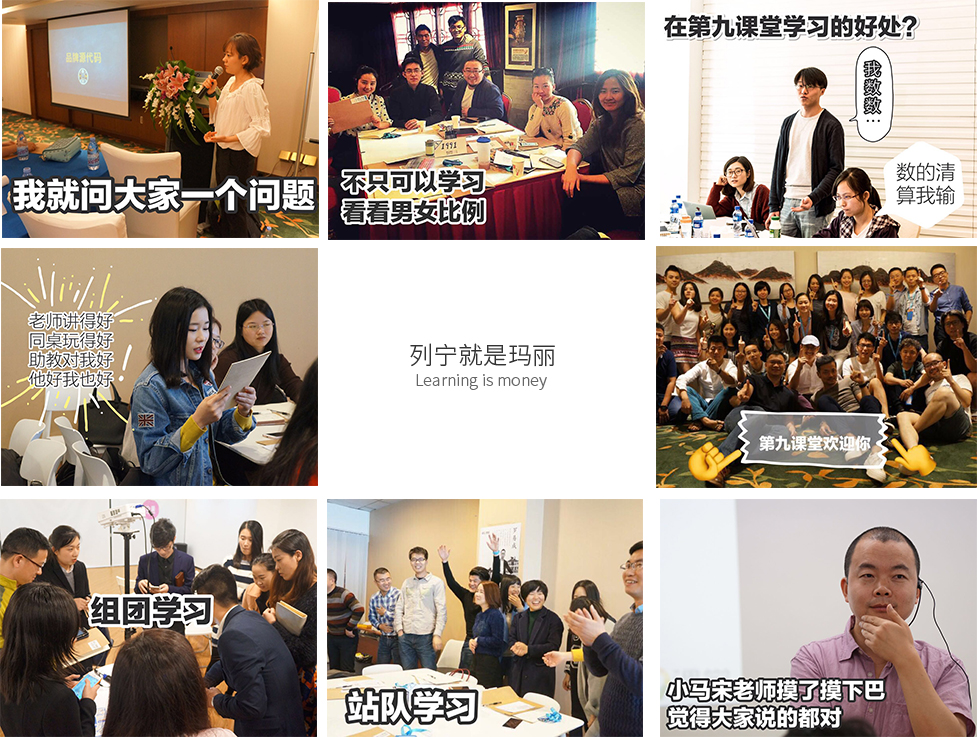
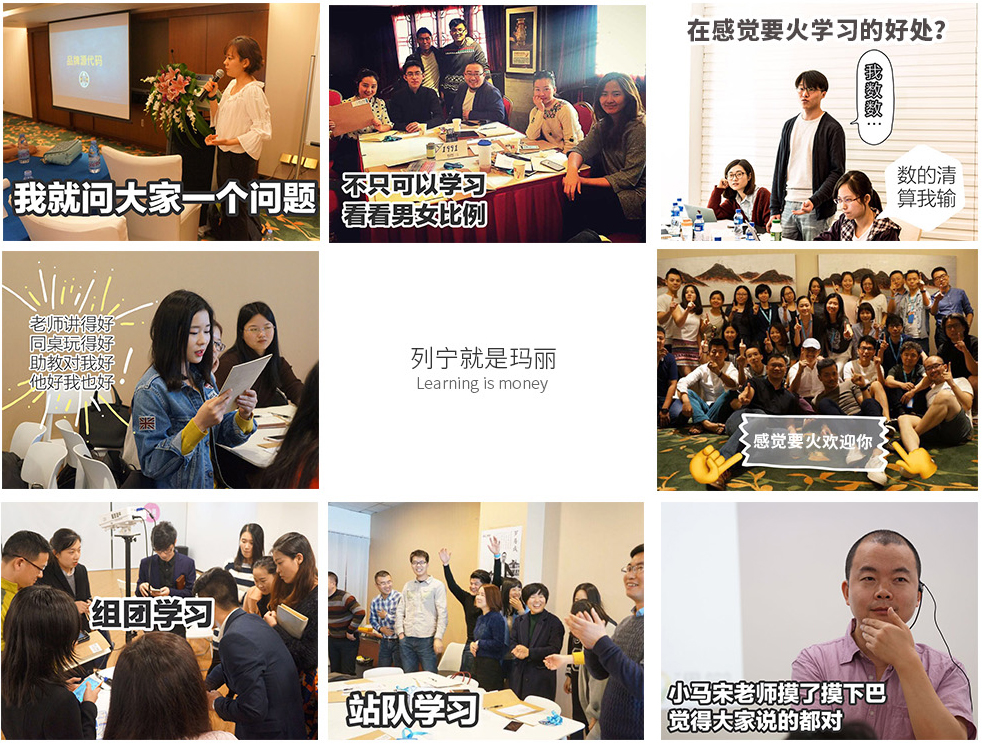
感觉要火

diff --git a/frontendIII/public/marry.html b/frontendIII/public/marry.html
@@ -14,7 +14,7 @@
     <div class="header">
         <div class="header-main">
             <div class="slogan">
-                <img src="./img/logo-150-44.png" alt="第九课堂" class="logo">
+                <img src="./svg/logo.svg" alt="第九课堂" class="logo">
                 专注互联网营销人才培养
             </div>
             <a href="javascript:void(0);" class="btn btn-show-navs">点我</a>
@@ -33,7 +33,7 @@
             在你嫁进来之前，肯定要深入了解一下结婚对象吧<br>
             <br>
 
-            九课是什么？<br>
+            感觉要火是什么？<br>
             我们做互联网新营销教育，<br>
             开设文案，品牌，策划，搞事情，新媒体，运营等方面的课程。<br>
             中国的营销从业目前还处于很早期，很粗狂，很靠感觉，很拼天分的时代，<br>
@@ -66,6 +66,7 @@
             <br>
 
             CEO是拿过几次风投的连续创业者，还算靠谱<br>
+            原第九课堂创始人<br>
             如果你对于营销教育行业有所了解<br>
             你可能会知道小马宋，黄有璨这些行业大V<br>
             是的，他们都是九课有过的牛人<br>
@@ -105,7 +106,7 @@
             <br>
 
             花点时间，<br>
-            我们相信九课会成为一家社会意义和市场估值都很高的公司。<br>
+            我们相信感觉要火会成为一家社会意义和市场估值都很高的公司。<br>
             我们希望自己的员工（至少早期员工）可以在深圳买的起房子。<br>
             <br>
 
@@ -165,7 +166,9 @@
                 <a href="#">数英网</a>
             </p>
             <div class="copyright">
-                粤ICP备17008478号-1 / 粤ICP证17008478号
+                <a href="http://www.miibeian.gov.cn" target="_blank">
+                    粤ICP备17008478号-1 / 粤ICP证17008478号
+                </a>
             </div>
         </div>
     </div>

diff --git a/frontendIII/public/course-2.html b/frontendIII/public/course-2.html
@@ -56,7 +56,7 @@
     <div class="header">
         <div class="header-main">
             <div class="slogan">
-                <img src="./img/logo-150-44.png" alt="第九课堂" class="logo">
+                <img src="./svg/logo.svg" alt="第九课堂" class="logo">
                 专注互联网营销人才培养
             </div>
             <a href="javascript:void(0);" class="btn btn-show-navs">点我</a>
@@ -106,7 +106,7 @@
                 <div class="item-detail">
                     <div class="item-detail-title">报名方式</div>
                     <p>
-                        <b>九课采取访谈审核制招生</b><br>
+                        <b>采取访谈审核制招生</b><br>
                         学员在支付学费后，会在24小时内接到九课正式访谈电话。<br>
                         通过审核学员，由于个人原因不能按时参课，名额可延期一次，两次延期名额作废。<br>
                         审核未通过学员，九课会在三个工作日内退还全款。<br>
@@ -235,7 +235,7 @@
                     版权声明：<br>
                     课程鼓励笔记，拍照，课后学习交流为目的探讨分享。<br>
                     但不允许录音，录影，和以商业目的发布课程内容，违者将被追究法律责任。<br>
-                    *所有政策最终解释权归第九课堂所有
+                    *所有政策最终解释权归感觉要火所有
                 </div>
             </div>
         </div>
@@ -291,7 +291,9 @@
                 <a href="http://www.digitaling.com/">数英网</a>
             </p>
             <div class="copyright">
-                粤ICP备17008478号-1 / 粤ICP证17008478号
+                <a href="http://www.miibeian.gov.cn" target="_blank">
+                    粤ICP备17008478号-1 / 粤ICP证17008478号
+                </a>
             </div>
         </div>
     </div>

diff --git a/frontendIII/public/course-3.html b/frontendIII/public/course-3.html
@@ -94,7 +94,7 @@
     <div class="header">
         <div class="header-main">
             <div class="slogan">
-                <img src="./img/logo-150-44.png" alt="第九课堂" class="logo">
+                <img src="./svg/logo.svg" alt="第九课堂" class="logo">
                 专注互联网营销人才培养
             </div>
             <a href="javascript:void(0);" class="btn btn-show-navs">点我</a>
@@ -145,7 +145,7 @@
                 <div class="item-detail">
                     <div class="item-detail-title">报名方式</div>
                     <p>
-                        <b>九课采取访谈审核制招生</b><br>
+                        <b>采取访谈审核制招生</b><br>
                         学员在支付学费后，会在24小时内接到九课正式访谈电话。<br>
                         通过审核学员，由于个人原因不能按时参课，名额可延期一次，两次延期名额作废。<br>
                         审核未通过学员，九课会在三个工作日内退还全款。<br>
@@ -274,7 +274,7 @@
                     版权声明：<br>
                     课程鼓励笔记，拍照，课后学习交流为目的探讨分享。<br>
                     但不允许录音，录影，和以商业目的发布课程内容，违者将被追究法律责任。<br>
-                    *所有政策最终解释权归第九课堂所有
+                    *所有政策最终解释权归感觉要火所有
                 </div>
             </div>
         </div>
@@ -330,7 +330,9 @@
                 <a href="http://www.digitaling.com/">数英网</a>
             </p>
             <div class="copyright">
-                粤ICP备17008478号-1 / 粤ICP证17008478号
+                <a href="http://www.miibeian.gov.cn" target="_blank">
+                    粤ICP备17008478号-1 / 粤ICP证17008478号
+                </a>
             </div>
         </div>
     </div>

diff --git a/frontendIII/public/course-1.html b/frontendIII/public/course-1.html
@@ -13,7 +13,7 @@
     <div class="header">
         <div class="header-main">
             <div class="slogan">
-                <img src="./img/logo-150-44.png" alt="第九课堂" class="logo">
+                <img src="./svg/logo.svg" alt="第九课堂" class="logo">
                 专注互联网营销人才培养
             </div>
             <a href="javascript:void(0);" class="btn btn-show-navs">点我</a>
@@ -63,7 +63,7 @@
                 <div class="item-detail">
                     <div class="item-detail-title">报名方式</div>
                     <p>
-                        <b>九课采取访谈审核制招生</b><br>
+                        <b>采取访谈审核制招生</b><br>
                         学员在支付学费后，会在24小时内接到九课正式访谈电话。<br>
                         通过审核学员，由于个人原因不能按时参课，名额可延期一次，两次延期名额作废。<br>
                         审核未通过学员，九课会在三个工作日内退还全款。<br>
@@ -192,7 +192,7 @@
                     版权声明：<br>
                     课程鼓励笔记，拍照，课后学习交流为目的探讨分享。<br>
                     但不允许录音，录影，和以商业目的发布课程内容，违者将被追究法律责任。<br>
-                    *所有政策最终解释权归第九课堂所有
+                    *所有政策最终解释权归感觉要火所有
                 </div>
             </div>
         </div>
@@ -248,7 +248,9 @@
                 <a href="http://www.digitaling.com/">数英网</a>
             </p>
             <div class="copyright">
-                粤ICP备17008478号-1 / 粤ICP证17008478号
+                <a href="http://www.miibeian.gov.cn" target="_blank">
+                    粤ICP备17008478号-1 / 粤ICP证17008478号
+                </a>
             </div>
         </div>
     </div>

diff --git a/frontendIII/public/home.html b/frontendIII/public/home.html
@@ -14,7 +14,7 @@
     <div class="header">
         <div class="header-main">
             <div class="slogan">
-                <img src="./img/logo-150-44.png" alt="第九课堂" class="logo">
+                <img src="./svg/logo.svg" alt="第九课堂" class="logo">
                 专注互联网营销人才培养
             </div>
             <a href="javascript:void(0);" class="btn btn-show-navs">点我</a>
@@ -41,7 +41,7 @@
         </div>
     </div>
     <div class="module-declaration img-center-container">
-        <img src="./img/home/slogan-466-68.png" alt="9，人和人的差别是在8个小时之外">
+        <img src="./img/home/slogan-304-60.png" alt="这一刻，感觉要火。">
     </div>
     <div class="module-courses">
         <div class="module-wrapper">
@@ -158,7 +158,9 @@
                 <a href="http://www.digitaling.com/">数英网</a>
             </p>
             <div class="copyright">
-                粤ICP备17008478号-1 / 粤ICP证17008478号
+                <a href="http://www.miibeian.gov.cn" target="_blank">
+                    粤ICP备17008478号-1 / 粤ICP证17008478号
+                </a>
             </div>
         </div>
     </div>

diff --git a/frontendIII/public/pay.html b/frontendIII/public/pay.html
@@ -14,7 +14,7 @@
     <div class="header">
         <div class="header-main">
             <div class="slogan">
-                <img src="./img/logo-150-44.png" alt="第九课堂" class="logo">
+                <img src="./svg/logo.svg" alt="第九课堂" class="logo">
                 专注互联网营销人才培养
             </div>
             <a href="javascript:void(0);" class="btn btn-show-navs">点我</a>
@@ -282,7 +282,9 @@
                 <a href="http://www.digitaling.com/">数英网</a>
             </p>
             <div class="copyright">
-                粤ICP备17008478号-1 / 粤ICP证17008478号
+                <a href="http://www.miibeian.gov.cn" target="_blank">
+                    粤ICP备17008478号-1 / 粤ICP证17008478号
+                </a>
             </div>
         </div>
     </div>

diff --git a/frontendIII/public/template.html b/frontendIII/public/template.html
@@ -13,7 +13,7 @@
     <div class="header">
         <div class="header-main">
             <div class="slogan">
-                <img src="./img/logo-150-44.png" alt="第九课堂" class="logo">
+                <img src="./svg/logo.svg" alt="第九课堂" class="logo">
                 专注互联网营销人才培养
             </div>
             <a href="javascript:void(0);" class="btn btn-show-navs">点我</a>
@@ -74,7 +74,9 @@
                 <a href="#">数英网</a>
             </p>
             <div class="copyright">
-                粤ICP备17008478号-1 / 粤ICP证17008478号
+                <a href="http://www.miibeian.gov.cn" target="_blank">
+                    粤ICP备17008478号-1 / 粤ICP证17008478号
+                </a>
             </div>
         </div>
     </div>

diff --git a/frontendIII/public/pay-success.html b/frontendIII/public/pay-success.html
@@ -70,7 +70,7 @@
     <div class="header">
         <div class="header-main">
             <div class="slogan">
-                <img src="./img/logo-150-44.png" alt="第九课堂" class="logo">
+                <img src="./svg/logo.svg" alt="第九课堂" class="logo">
                 专注互联网营销人才培养
             </div>
             <a href="javascript:void(0);" class="btn btn-show-navs">点我</a>

diff --git a/frontendIII/public/train.html b/frontendIII/public/train.html
@@ -47,7 +47,7 @@
     <div class="header">
         <div class="header-main">
             <div class="slogan">
-                <img src="./img/logo-150-44.png" alt="第九课堂" class="logo">
+                <img src="./svg/logo.svg" alt="第九课堂" class="logo">
                 专注互联网营销人才培养
             </div>
             <a href="javascript:void(0);" class="btn btn-show-navs">点我</a>

diff --git a/frontendIII/public/css/base.css b/frontendIII/public/css/base.css
@@ -371,6 +371,10 @@ a {
     text-align: center;
 }
 
+.module-footer .copyright a {
+    color: #999;
+}
+
 @media screen and (max-width: 1000px) {
     .module-wrapper {
         width: auto;
